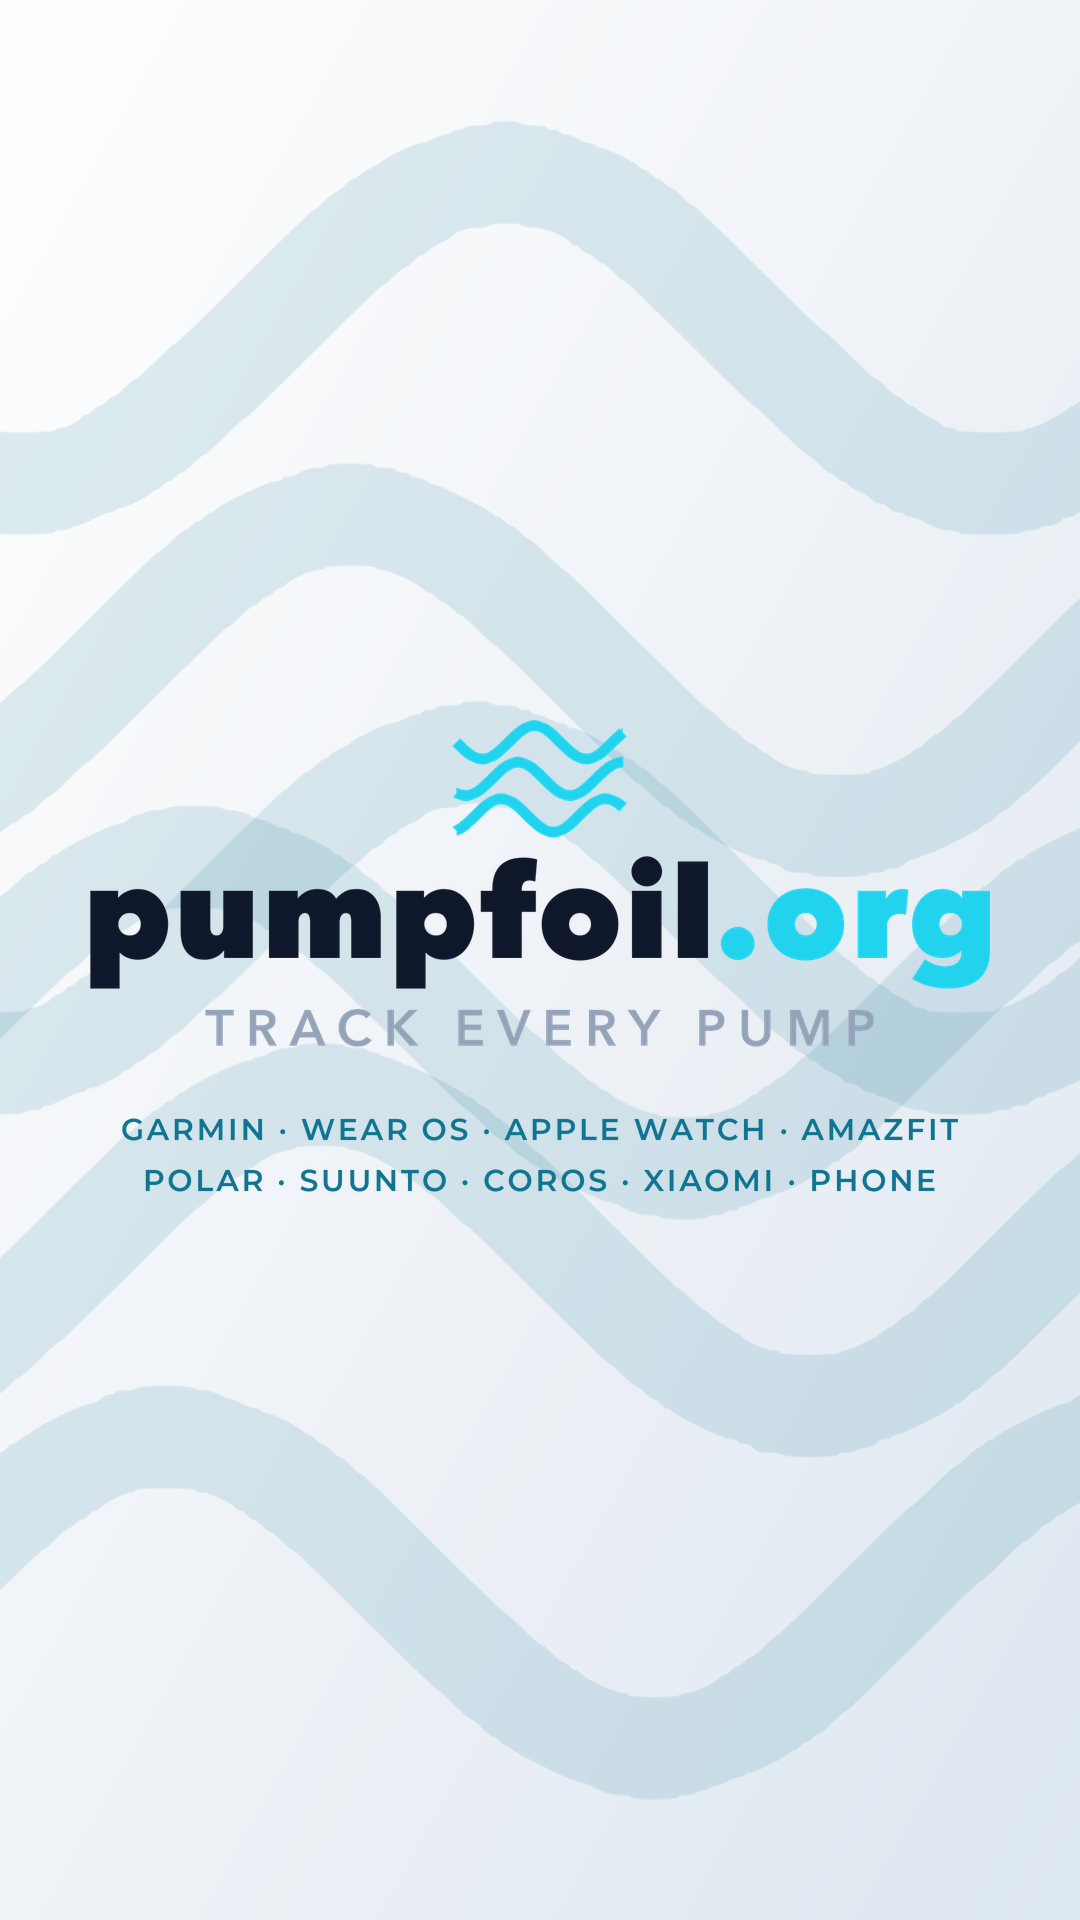
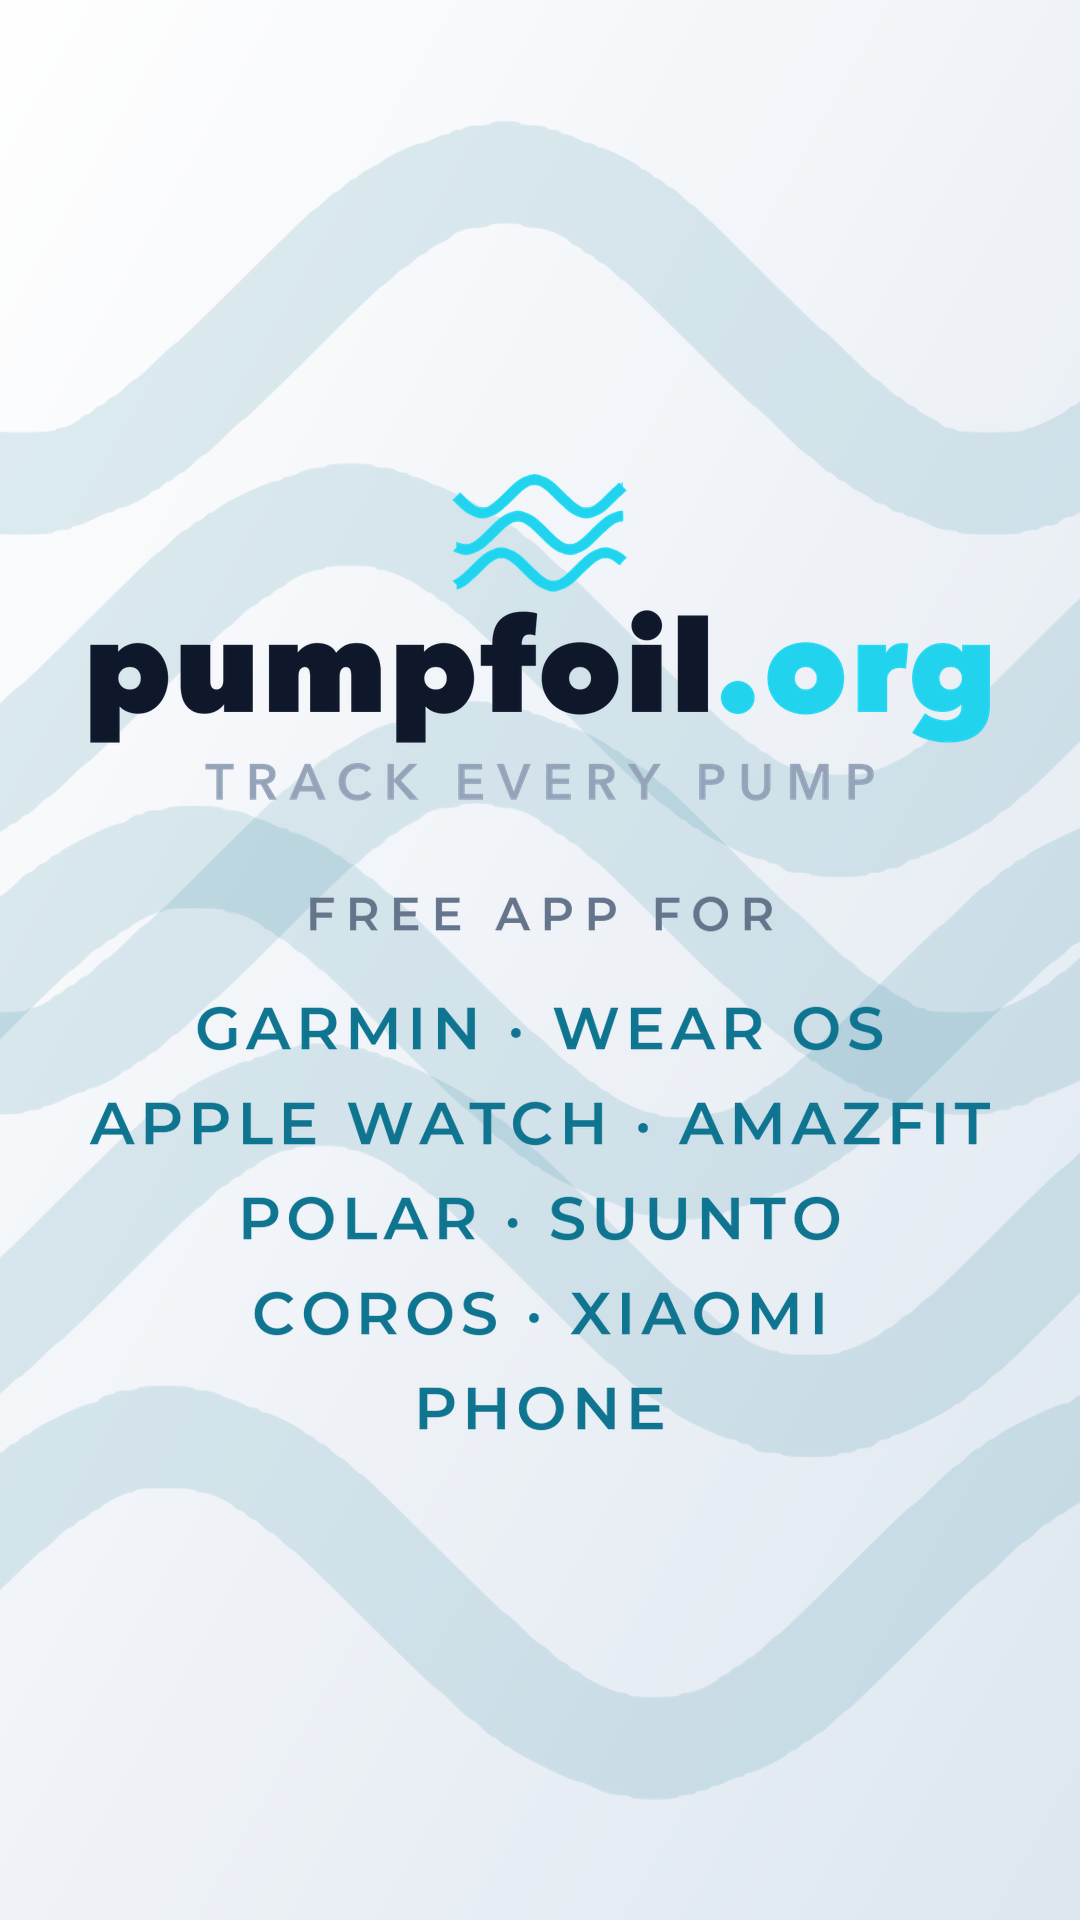
Shorts-Endcards: Plattformen gross, zwei je Zeile, mit „FREE APP FOR" darueber
Jan, 04.09.: im Short kann man neun Namen in zwei Zeilen nicht lesen. Die Endcard bricht
jetzt nach ZWEI Eintraegen um — fuenf Zeilen, dafuer deutlich groessere Schrift, weil bei
gleicher Breite weniger Zeichen je Zeile stehen. Das YouTube-Banner bleibt wie es ist;
dort ist Breite genug und die zweizeilige Fassung sitzt gut.

`subline_zeilen(pro_zeile)` macht den Unterschied: dieselbe Quelle, andere Umbruch-Regel.

Dazu die Einleitung „FREE APP FOR" ueber der Liste — ohne sie stand dort nur eine Reihe
Markennamen, und niemand sah, dass es um eine App geht. Mit ihr liest sich die Liste als
Satz. Englisch wie die Tagline, weil die Endcard international laeuft; „FREE" stimmt und
ist das staerkste Wort, das wir ehrlich sagen koennen (AGPL-3.0).

Claude-Session: https://claude.ai/code/session_014ScY9MsqR76xh62UDbMKg1

Changed region(s): [[0.0611, 0.25, 0.9167, 0.75]]

diff --git a/brand/master/endcard.py b/brand/master/endcard.py
@@ -30,6 +30,11 @@ HELL = ("#ffffff", "#eef2f7", "#dde7f0")
 DUNKEL = ("#020617", "#061226", "#0a1f3a")
 # Cyan auf Weiss ist zu blass — auf hellem Grund die dunklere Stufe derselben Farbfamilie.
 CYAN_HELL = "#0e7490"
+# Einleitung ueber der Plattform-Liste. Ohne sie steht dort nur eine Reihe Markennamen, und
+# niemand sieht, dass es um eine App geht (Jan, 04.09.). Mit ihr liest sich die Liste als Satz:
+# „FREE APP FOR — GARMIN · WEAR OS · …". Englisch wie die Tagline, weil die Endcard international
+# laeuft; „FREE" stimmt und ist das staerkste Wort, das wir ehrlich sagen koennen (AGPL-3.0).
+APP_ZEILE = "FREE APP FOR"
 
 
 def verlauf(farben: tuple[str, str, str]) -> Image.Image:
@@ -64,11 +69,23 @@ def endcard(theme: str) -> Image.Image:
     breite = W - 2 * RAND
     lock = lock.resize((breite, round(lock.height * breite / lock.width)), Image.LANCZOS)
 
-    # Plattform-Liste, zwei Zeilen, exakt wie im Banner — gleiche Quelle, gleiche Teilung.
-    zeilen = [banner.subline_image(z, px=64, tracking=6) for z in banner.subline_zeilen()]
-    # Dieselbe Proportion wie im Banner (banner.SUB_BREITE): die Liste steht eine Spur schmaler
-    # als das Lockup, damit sie nicht groesser wirkt als die Tagline.
-    faktor = (breite * banner.SUB_BREITE) / max(z.width for z in zeilen)
+    # Plattform-Liste — hier ANDERS als im Banner: nur ZWEI Eintraege je Zeile. Ein Short laeuft
+    # auf einem Handy und ist drei Sekunden zu sehen; neun Namen in zwei Zeilen kann dort niemand
+    # lesen (Jan, 04.09.). Weniger Zeichen je Zeile heisst groessere Schrift bei gleicher Breite.
+    # Die Quelle bleibt dieselbe wie im Banner, nur die Umbruch-Regel unterscheidet sich.
+    zeilen = [banner.subline_image(z, px=64, tracking=6) for z in banner.subline_zeilen(2)]
+    faktor = breite / max(z.width for z in zeilen)
+    # Die Einleitung in derselben Schrift, aber kleiner und ruhiger als die Marken darunter —
+    # sie soll fuehren, nicht mit ihnen konkurrieren.
+    einleitung = banner.subline_image(APP_ZEILE, px=44, tracking=10)
+    ein_faktor = (breite * 0.52) / einleitung.width
+    einleitung = einleitung.resize((round(einleitung.width * ein_faktor),
+                                    round(einleitung.height * ein_faktor)), Image.LANCZOS)
+    grau = "#64748b" if hell else "#94a3b8"
+    r, g, b = banner._hex(grau)
+    voll = Image.new("RGBA", einleitung.size, (r, g, b, 255))
+    voll.putalpha(einleitung.split()[3])
+    einleitung = voll
     zeilen = [z.resize((round(z.width * faktor), round(z.height * faktor)), Image.LANCZOS)
               for z in zeilen]
     if hell:
@@ -79,14 +96,19 @@ def endcard(theme: str) -> Image.Image:
             voll.putalpha(z.split()[3])
             zeilen[i] = voll
 
-    abstand = 64          # Luft zwischen Tagline und Liste, wie im Banner
-    block_h = lock.height + abstand + sum(z.height for z in zeilen) + 14
+    abstand = 84                                   # Lockup -> Einleitung
+    nach_einleitung = round(einleitung.height * 0.85)
+    zeilenabstand = round(zeilen[0].height * 0.30)  # Luft zwischen den Plattform-Zeilen
+    block_h = (lock.height + abstand + einleitung.height + nach_einleitung
+               + sum(z.height for z in zeilen) + zeilenabstand * (len(zeilen) - 1))
     y = (H - block_h) // 2
     grund.alpha_composite(lock, ((W - lock.width) // 2, y))
     y += lock.height + abstand
+    grund.alpha_composite(einleitung, ((W - einleitung.width) // 2, y))
+    y += einleitung.height + nach_einleitung
     for z in zeilen:
         grund.alpha_composite(z, ((W - z.width) // 2, y))
-        y += z.height + 14
+        y += z.height + zeilenabstand
     return grund.convert("RGB")
 
 

diff --git a/brand/master/banner.py b/brand/master/banner.py
@@ -57,8 +57,13 @@ def subline_image(text: str, px: int, tracking: int) -> Image.Image:
     return img
 
 
-def subline_zeilen() -> list[str]:
-    """Die Plattform-Liste auf ZWEI Zeilen aufteilen, moeglichst gleich breit.
+def subline_zeilen(pro_zeile: int | None = None) -> list[str]:
+    """Die Plattform-Liste auf Zeilen aufteilen.
+
+    `pro_zeile` gesetzt = feste Zahl Eintraege je Zeile (die Endcard nutzt zwei: auf einem
+    Handy-Bildschirm, der drei Sekunden zu sehen ist, muss die Schrift gross sein, und gross
+    wird sie nur ueber WENIGER Zeichen je Zeile). Ohne Angabe: zwei Zeilen, moeglichst gleich
+    breit — so steht es im YouTube-Banner, wo Breite genug da ist.
 
     Warum zwei Zeilen: die Subline wird auf die volle Lockup-Breite gezogen, also schrumpft
     jedes Zeichen mit jeder neuen Plattform. Bei neun Eintraegen war sie zu klein zum Lesen
@@ -67,6 +72,8 @@ def subline_zeilen() -> list[str]:
     Zahl der Eintraege: „APPLE WATCH" wiegt so viel wie zwei kurze Namen.
     """
     teile = [t.strip() for t in SUBLINE.split("·")]
+    if pro_zeile:
+        return [" · ".join(teile[i:i + pro_zeile]) for i in range(0, len(teile), pro_zeile)]
     gesamt = sum(len(t) for t in teile)
     lauf, schnitt = 0, len(teile) // 2
     for i, t in enumerate(teile):
